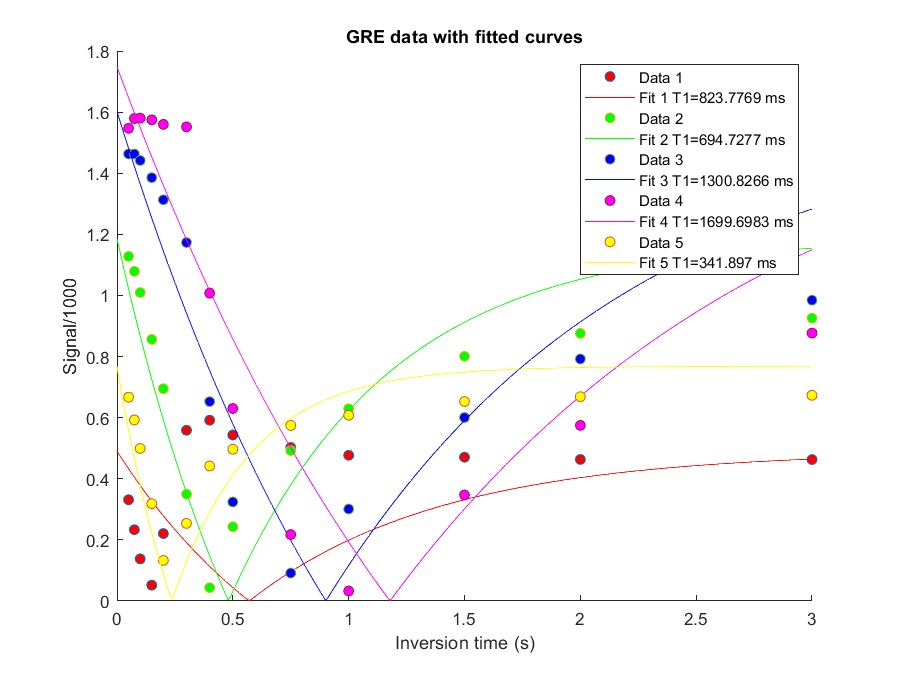
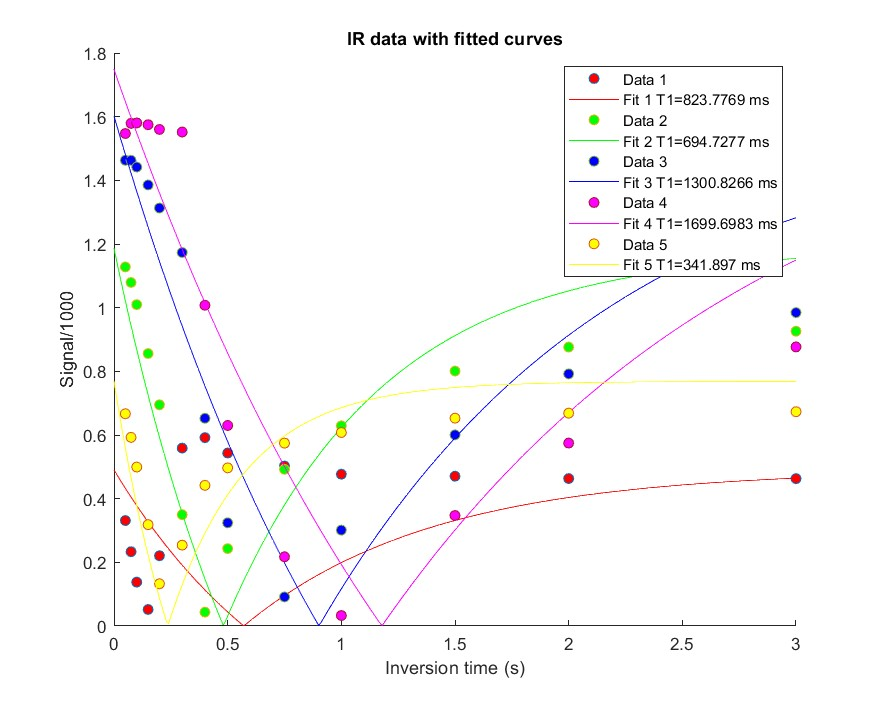
Finished 2, started 3

diff --git a/Lab report/Exercise3.m b/Lab report/Exercise3.m
@@ -1,0 +1,63 @@
+%open folder
+path = uigetdir('C:\Users\bhaan\Documents\#Master Degree\MR Theory and Diagnostics\MRI_Exercises\Lab report\FYS4740-lab','Select folder');
+files = dir(path);
+cd(path);
+names = {files.name}; %extracts file names
+names = names(1, 3:end); %creates list of names
+
+%set locations of ROIs --> found manually using impixelinfo
+locs = [131, 136;
+        167, 92;
+        178, 174;
+        95, 184;
+        86, 103];
+
+%Prepare variables
+Data = zeros(size(locs,1),size(names,2)); %one row per circle, each column is a NSA
+NSA = zeros(1,size(names,2));
+
+%Read in each image and extract info
+for p = 1:size(names,2)
+    %extract NSA
+    info = dicominfo(names{p},'UseDictionaryVR',true); %reads file info for each name
+    NSA(p) = info.NumberOfAverages;
+
+    %Read in image
+    im = dicomread(names{p});
+    % figure
+    % imshow(im,[])
+
+    for q = 1:size(locs,1)
+        ROI = drawcircle('Center', locs(q,:), 'Radius', 10);
+        mask = createMask(ROI, im);
+        Mean = mean(double(im(mask)));
+        Variance = var(double(im(mask)));
+        SNR = sqrt(2)*(Mean/Variance);
+        Data(q,p) = SNR;
+    end
+end
+
+%Plot data
+figure
+hold on
+plot(NSA, Data(1:2,:))
+plot(NSA, Data(5,:))
+legend('ROI 1', 'ROI 2', 'ROI 5');
+title('Signal-to-Noise Ratio versus NSA')
+xlabel('Number of Averages')
+ylabel('SNR')
+
+figure
+plot(NSA, Data(3:4,:))
+legend('ROI 3', 'ROI 4')
+title('Signal-to-Noise Ratio versus NSA')
+xlabel('Number of Averages')
+ylabel('SNR')
+
+figure
+plot(NSA, mean(Data,1))
+title('Mean SNR across all ROIs versus NSA')
+xlabel('Number of Averages')
+ylabel('Mean SNR')
+
+cd('C:\Users\bhaan\Documents\#Master Degree\MR Theory and Diagnostics\MRI_Exercises\Lab report')

diff --git a/Lab report/Exercise2.m b/Lab report/Exercise2.m
@@ -127,12 +127,14 @@ for i = 1:size(Data,1)
     plot(tvec, fun(c,tvec), "Color", col(i))
 end
 
-title('GRE data with fitted curves')
+
 ylabel('Signal/1000')
 %For IR
+title('IR data with fitted curves')
 xlabel('Inversion time (s)')
 legend('Data 1', ['Fit 1 T1=' num2str(t1(1)*1000) ' ms'], 'Data 2', ['Fit 2 T1=' num2str(t1(2)*1000) ' ms'], 'Data 3', ['Fit 3 T1=' num2str(t1(3)*1000) ' ms'], 'Data 4', ['Fit 4 T1=' num2str(t1(4)*1000) ' ms'], 'Data 5', ['Fit 5 T1=' num2str(t1(5)*1000) ' ms'])
 %For GRE
+% title('GRE data with fitted curves')
 % xlabel('Angle (rad)')
 % legend('Data 1', ['Fit 1 T1=' num2str(t1(1)) ' ms'], 'Data 2', ['Fit 2 T1=' num2str(t1(2)) ' ms'], 'Data 3', ['Fit 3 T1=' num2str(t1(3)) ' ms'], 'Data 4', ['Fit 4 T1=' num2str(t1(4)) ' ms'], 'Data 5', ['Fit 5 T1=' num2str(t1(5)) ' ms'])
 
